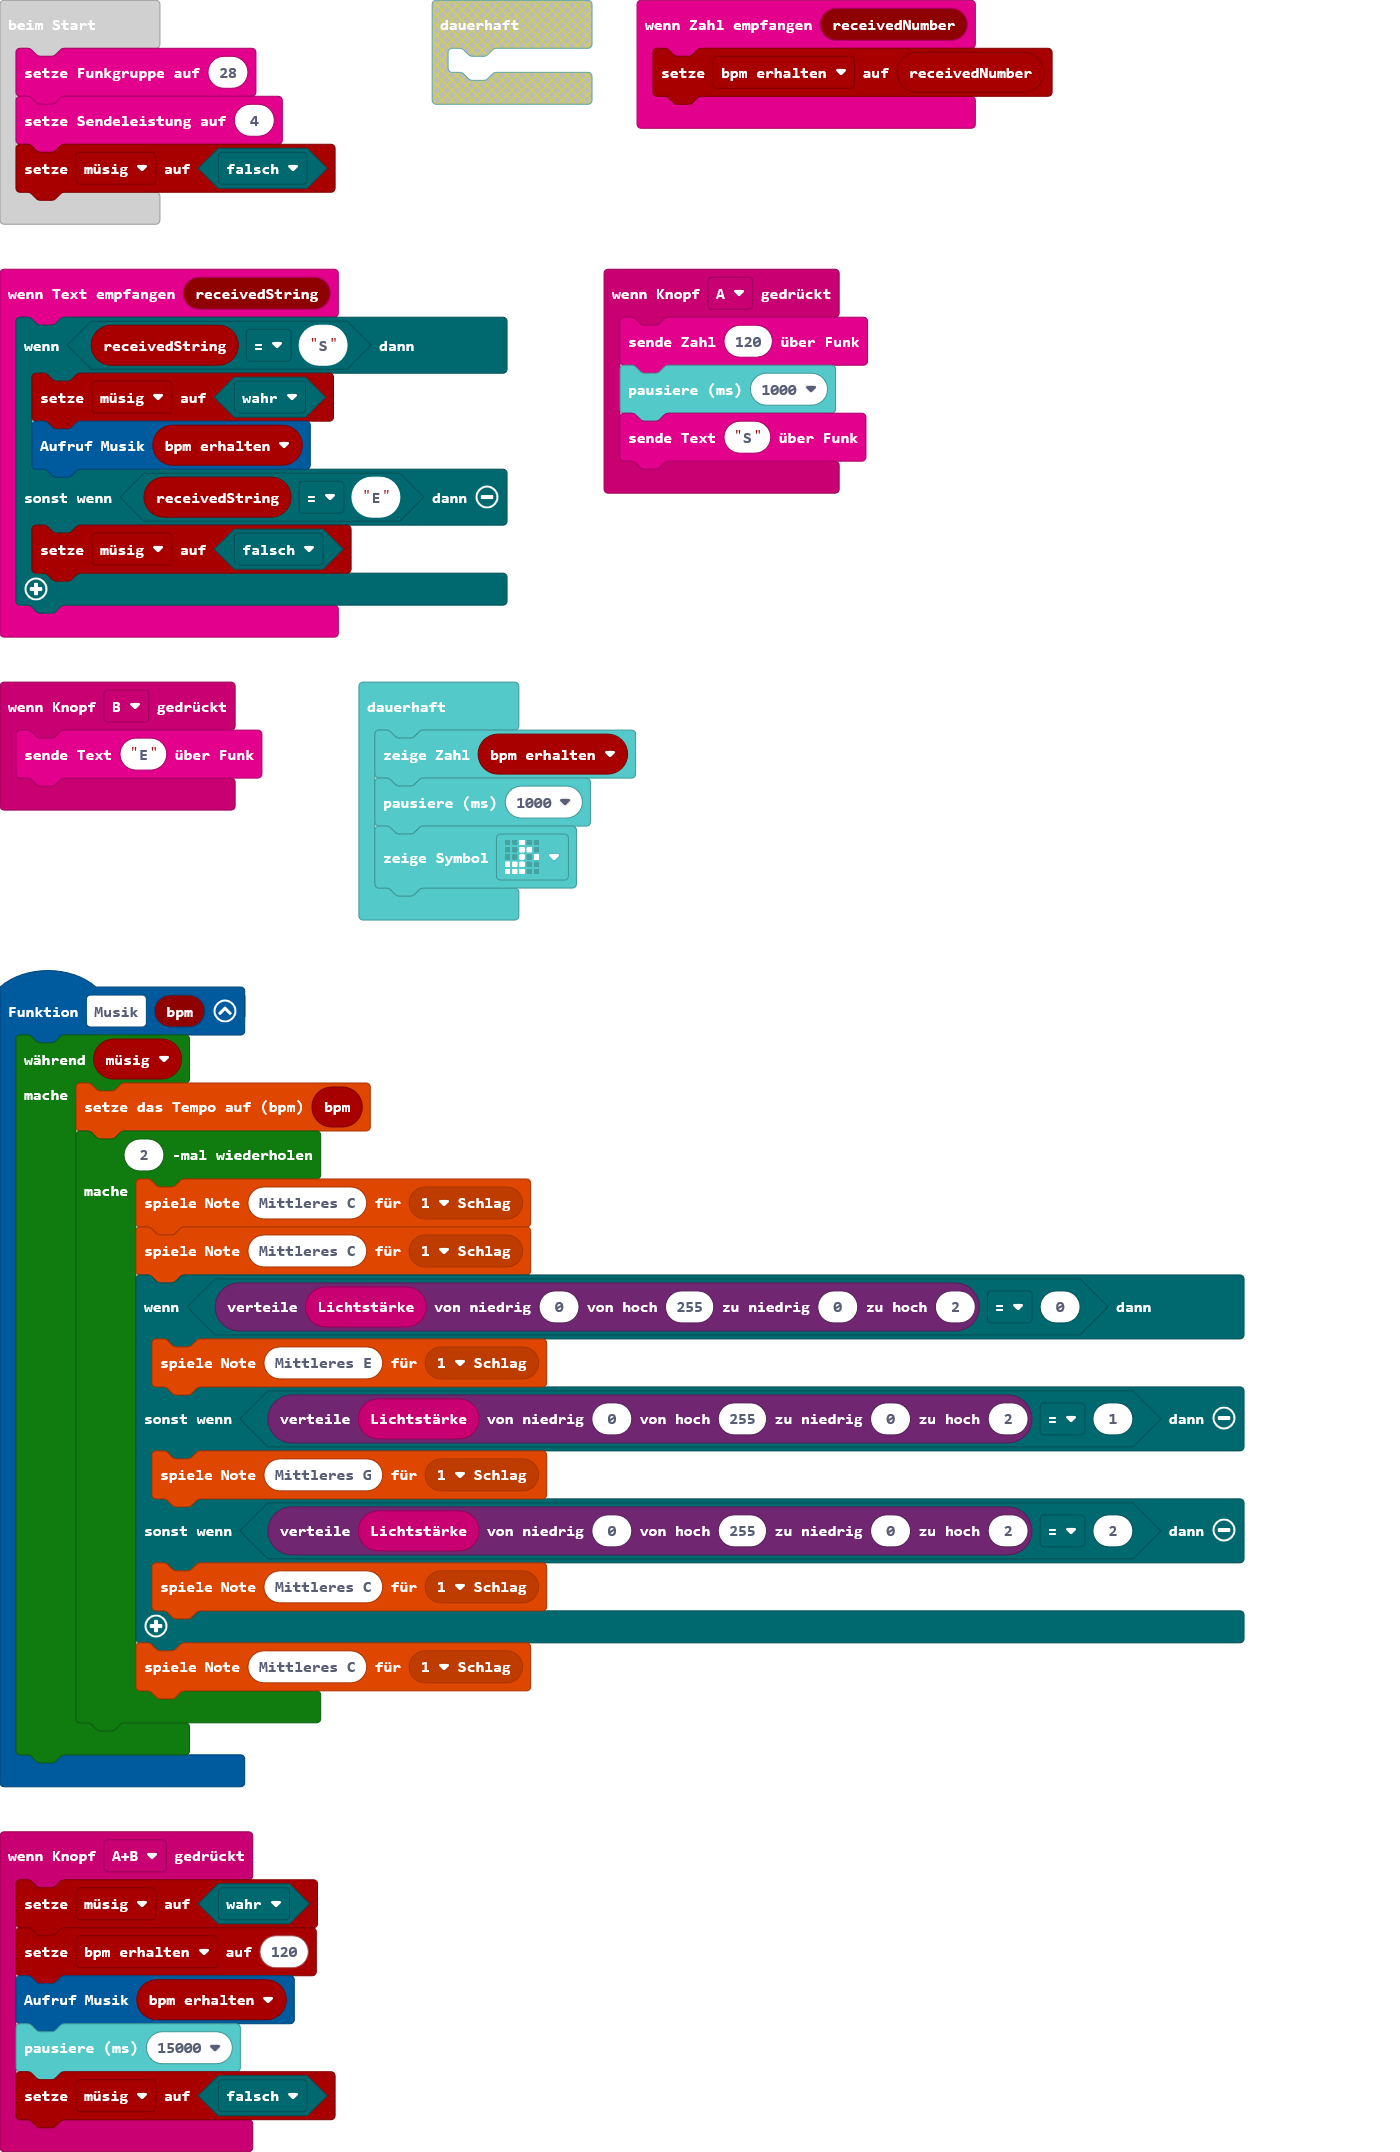
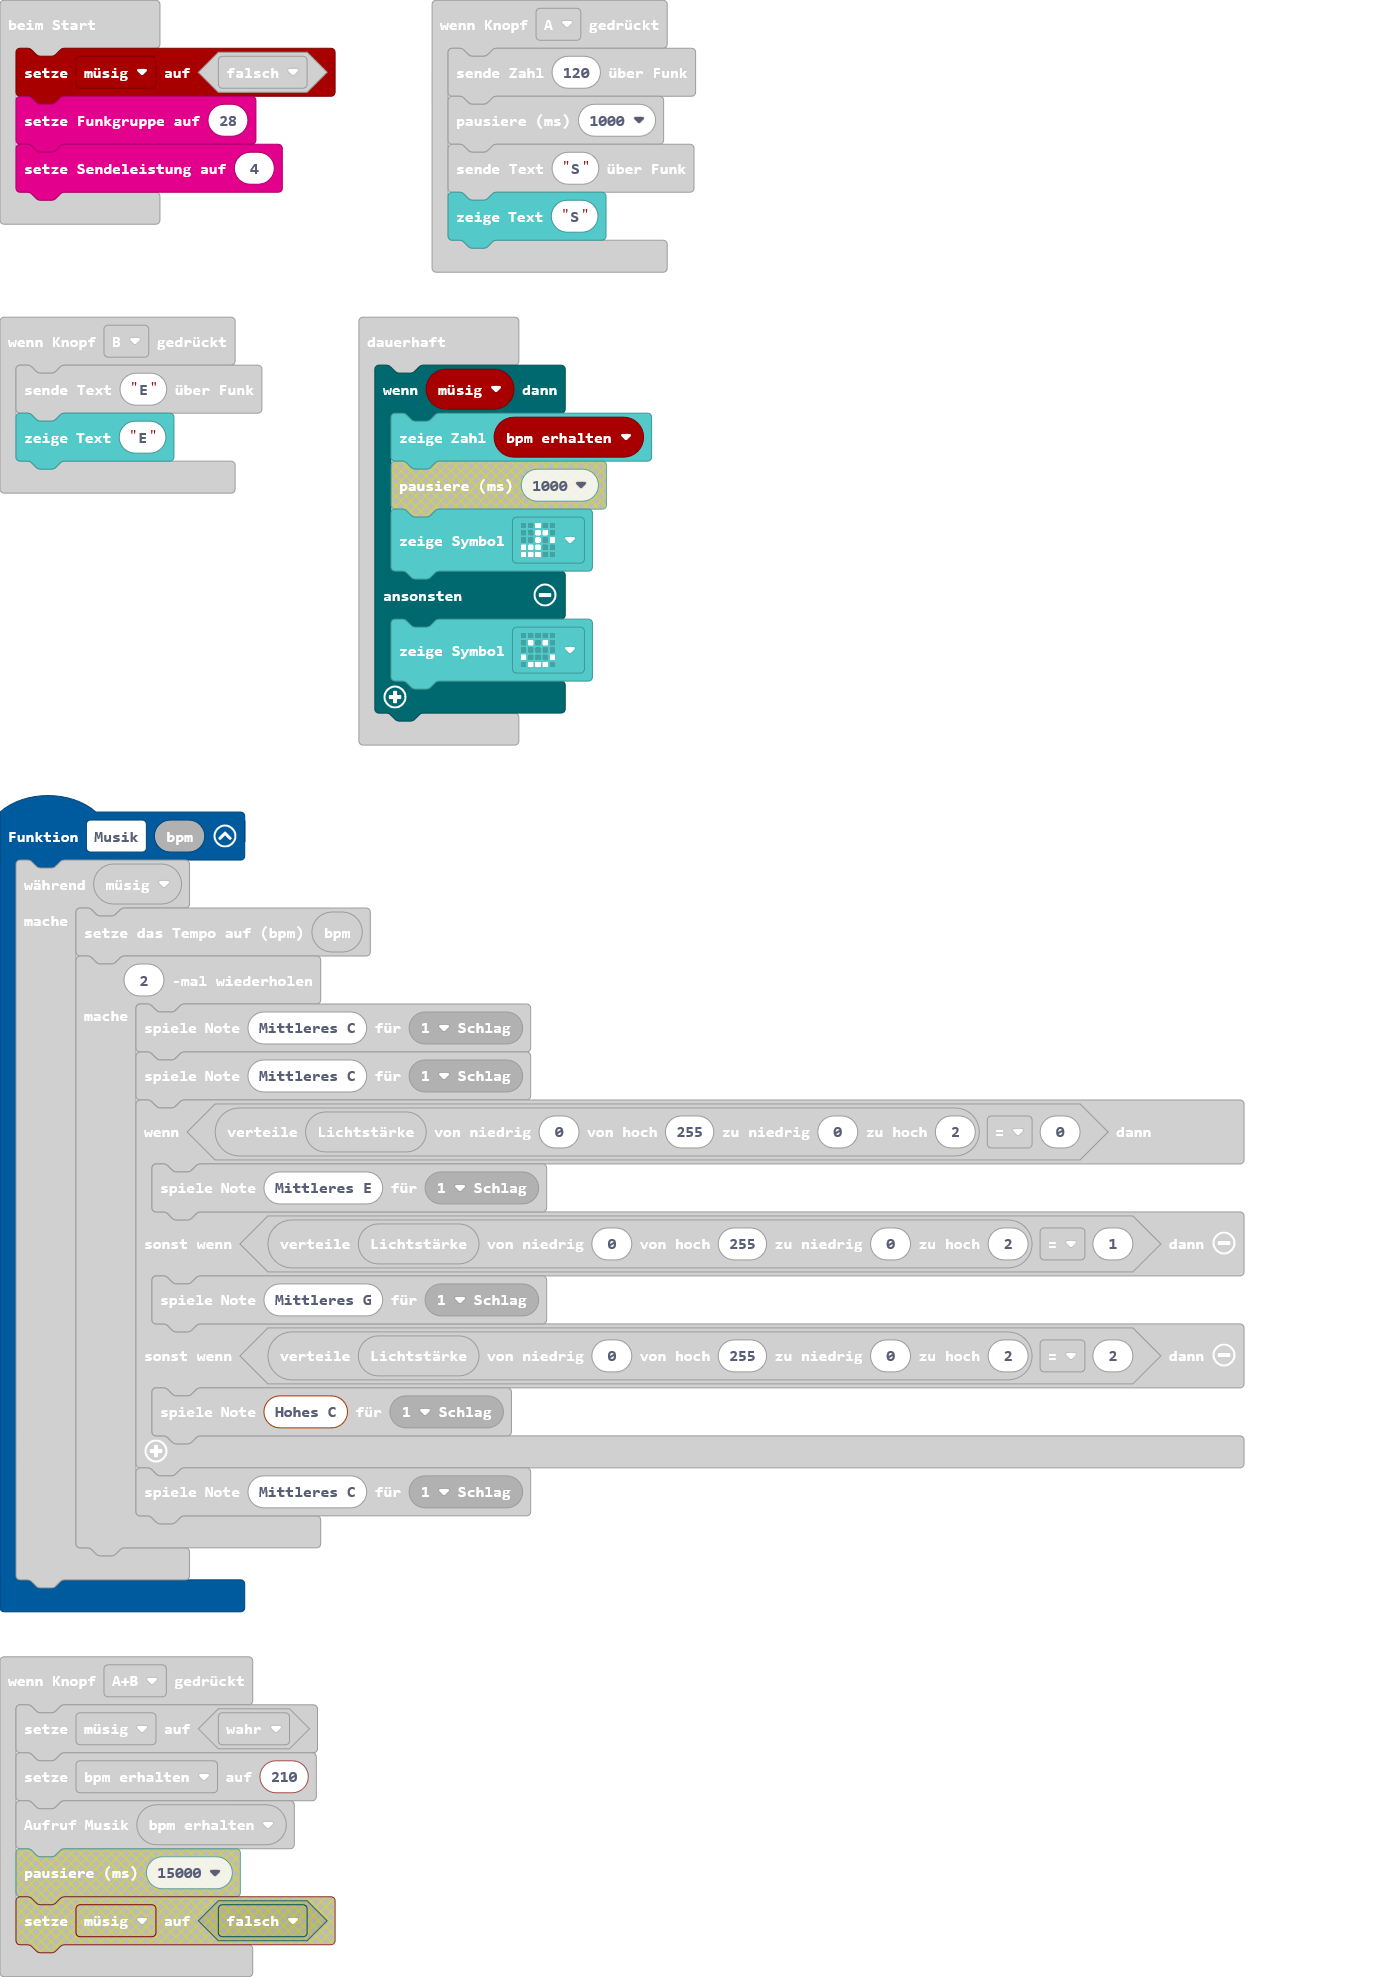
Aktualisiere main.blocks, main.ts

diff --git a/main.ts b/main.ts
@@ -12,7 +12,7 @@ function Musik (bpm: number) {
             } else if (Math.map(input.lightLevel(), 0, 255, 0, 2) == 1) {
                 music.playTone(392, music.beat(BeatFraction.Whole))
             } else if (Math.map(input.lightLevel(), 0, 255, 0, 2) == 2) {
-                music.playTone(262, music.beat(BeatFraction.Whole))
+                music.playTone(523, music.beat(BeatFraction.Whole))
             }
             music.playTone(262, music.beat(BeatFraction.Whole))
         }
@@ -22,13 +22,12 @@ input.onButtonPressed(Button.A, function () {
     radio.sendNumber(120)
     basic.pause(1000)
     radio.sendString("S")
+    basic.showString("S")
 })
 input.onButtonPressed(Button.AB, function () {
     müsig = true
-    bpm_erhalten = 120
+    bpm_erhalten = 210
     Musik(bpm_erhalten)
-    basic.pause(15000)
-    müsig = false
 })
 radio.onReceivedString(function (receivedString) {
     if (receivedString == "S") {
@@ -40,14 +39,18 @@ radio.onReceivedString(function (receivedString) {
 })
 input.onButtonPressed(Button.B, function () {
     radio.sendString("E")
+    basic.showString("E")
 })
 let bpm_erhalten = 0
 let müsig = false
+müsig = false
 radio.setGroup(28)
 radio.setTransmitPower(4)
-müsig = false
 basic.forever(function () {
-    basic.showNumber(bpm_erhalten)
-    basic.pause(1000)
-    basic.showIcon(IconNames.EigthNote)
+    if (müsig) {
+        basic.showNumber(bpm_erhalten)
+        basic.showIcon(IconNames.EigthNote)
+    } else {
+        basic.showIcon(IconNames.Happy)
+    }
 })
